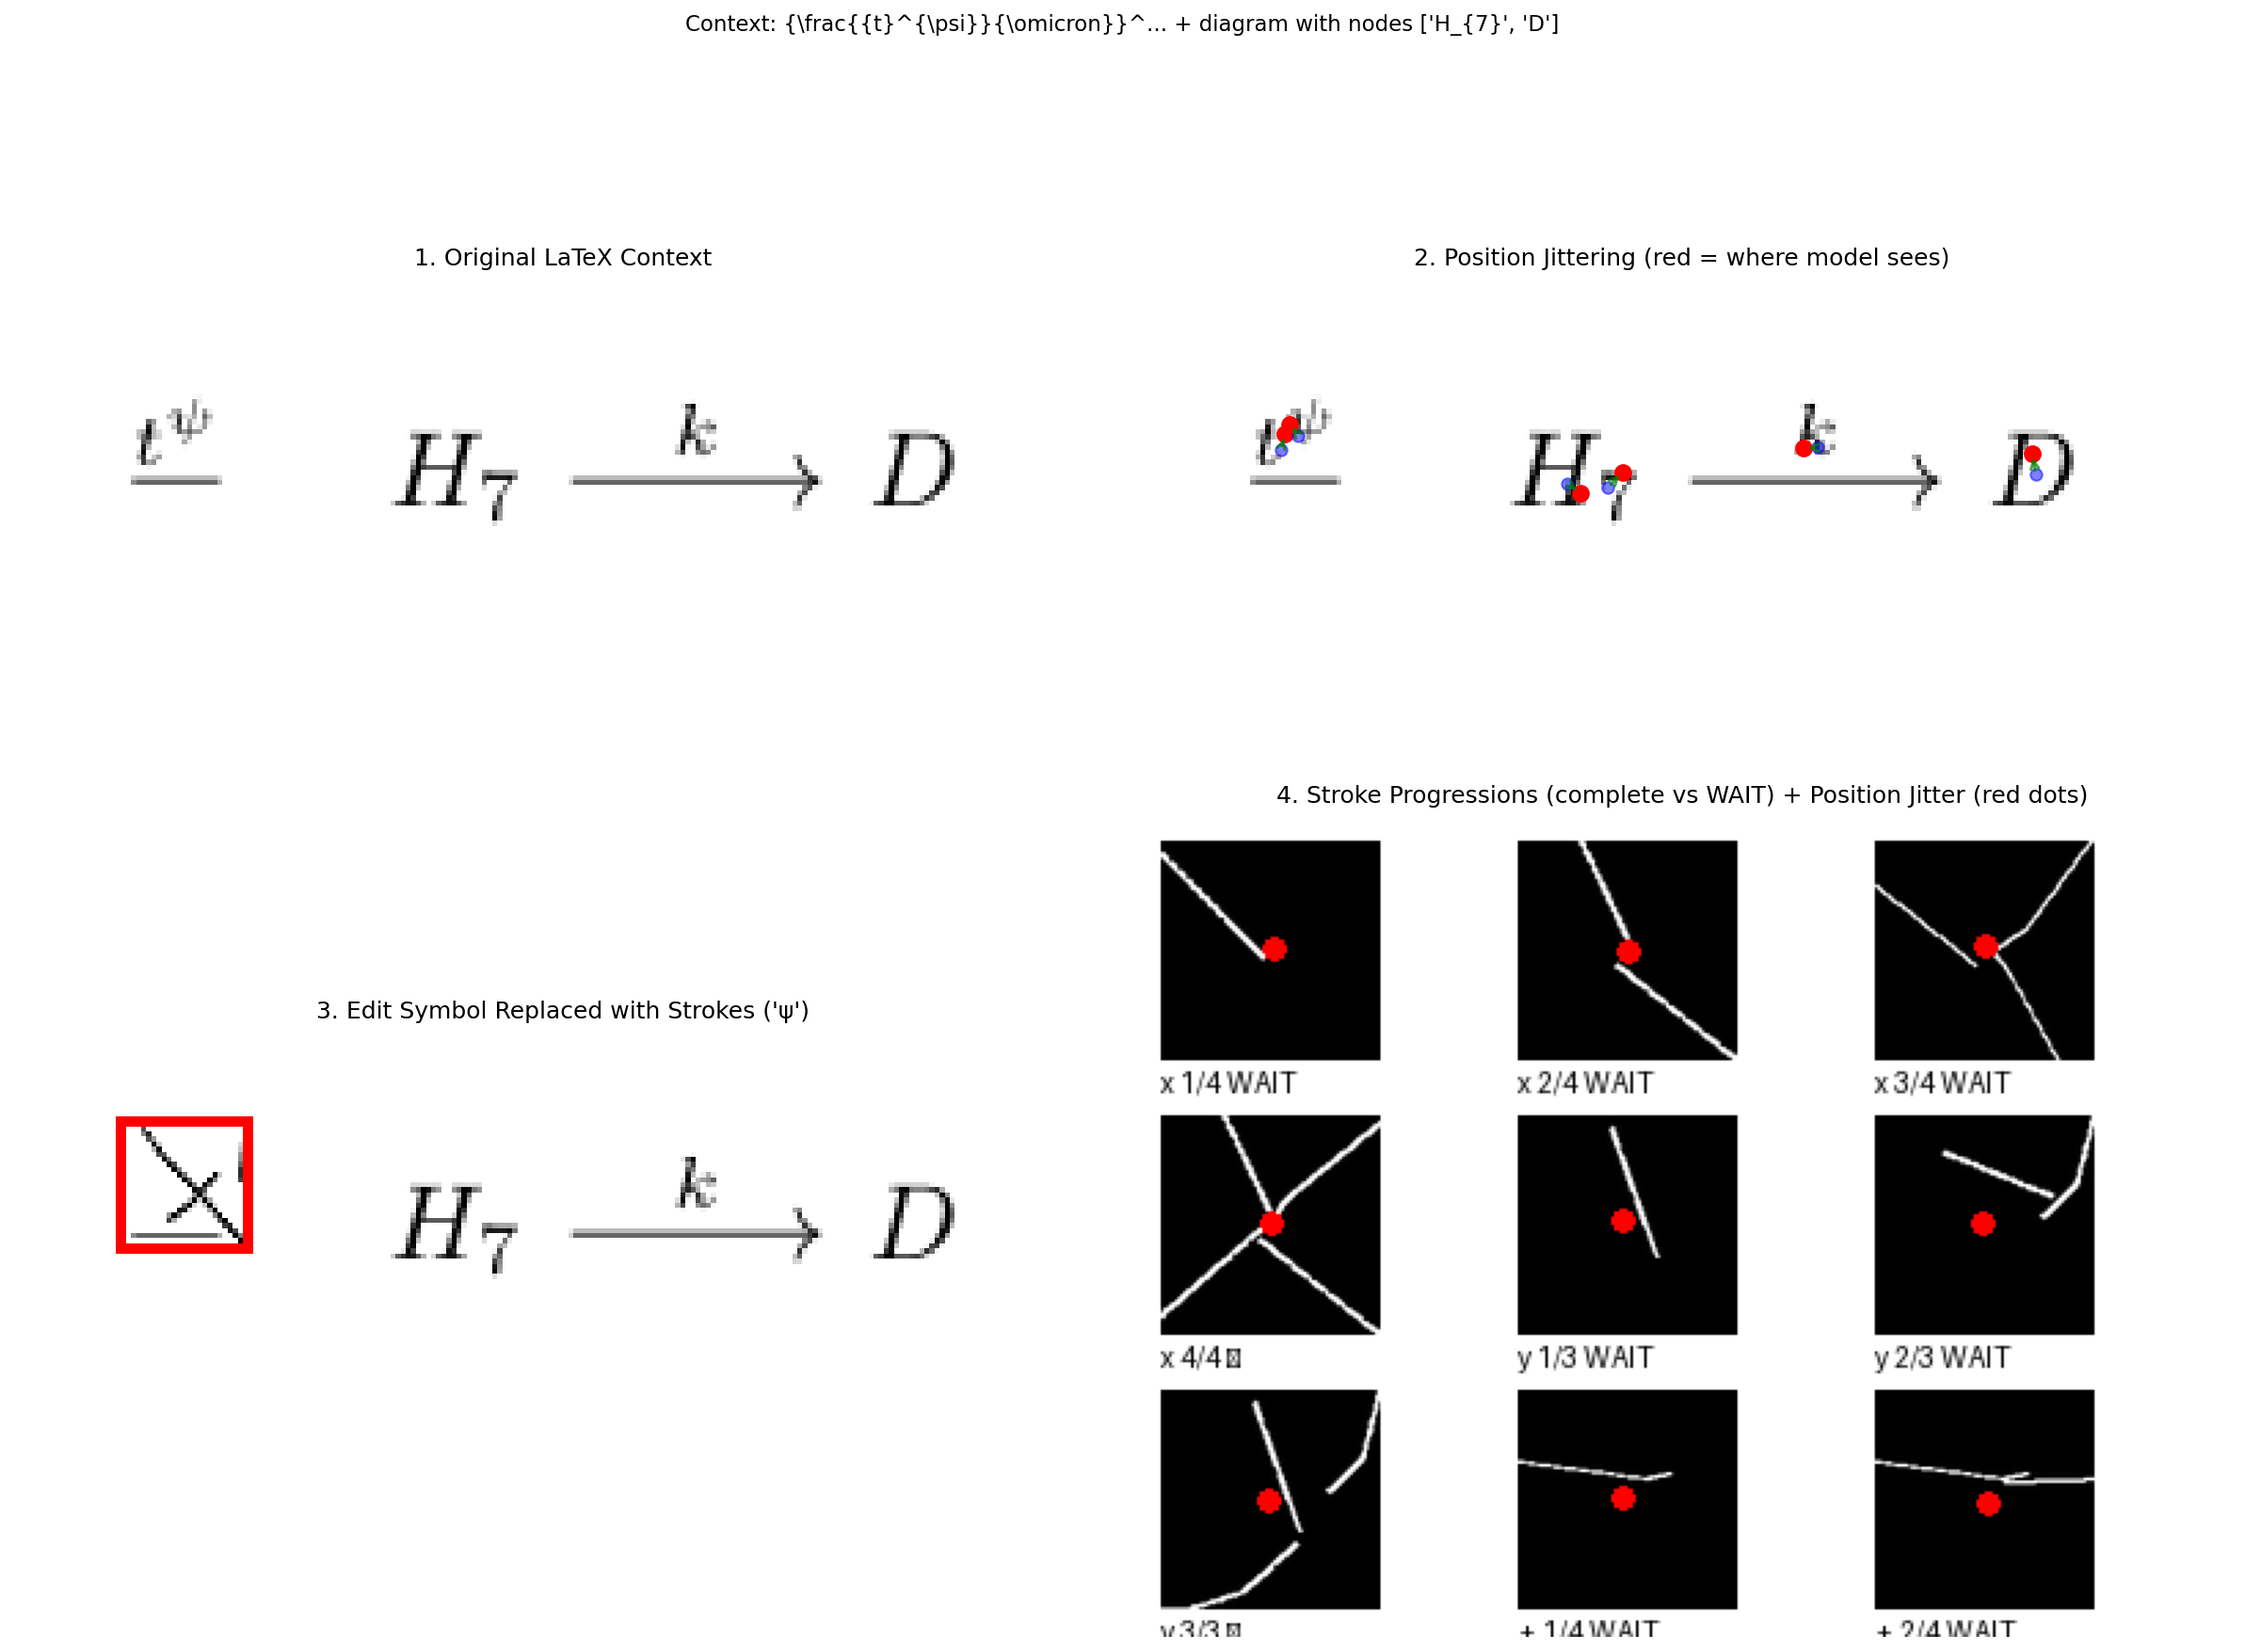
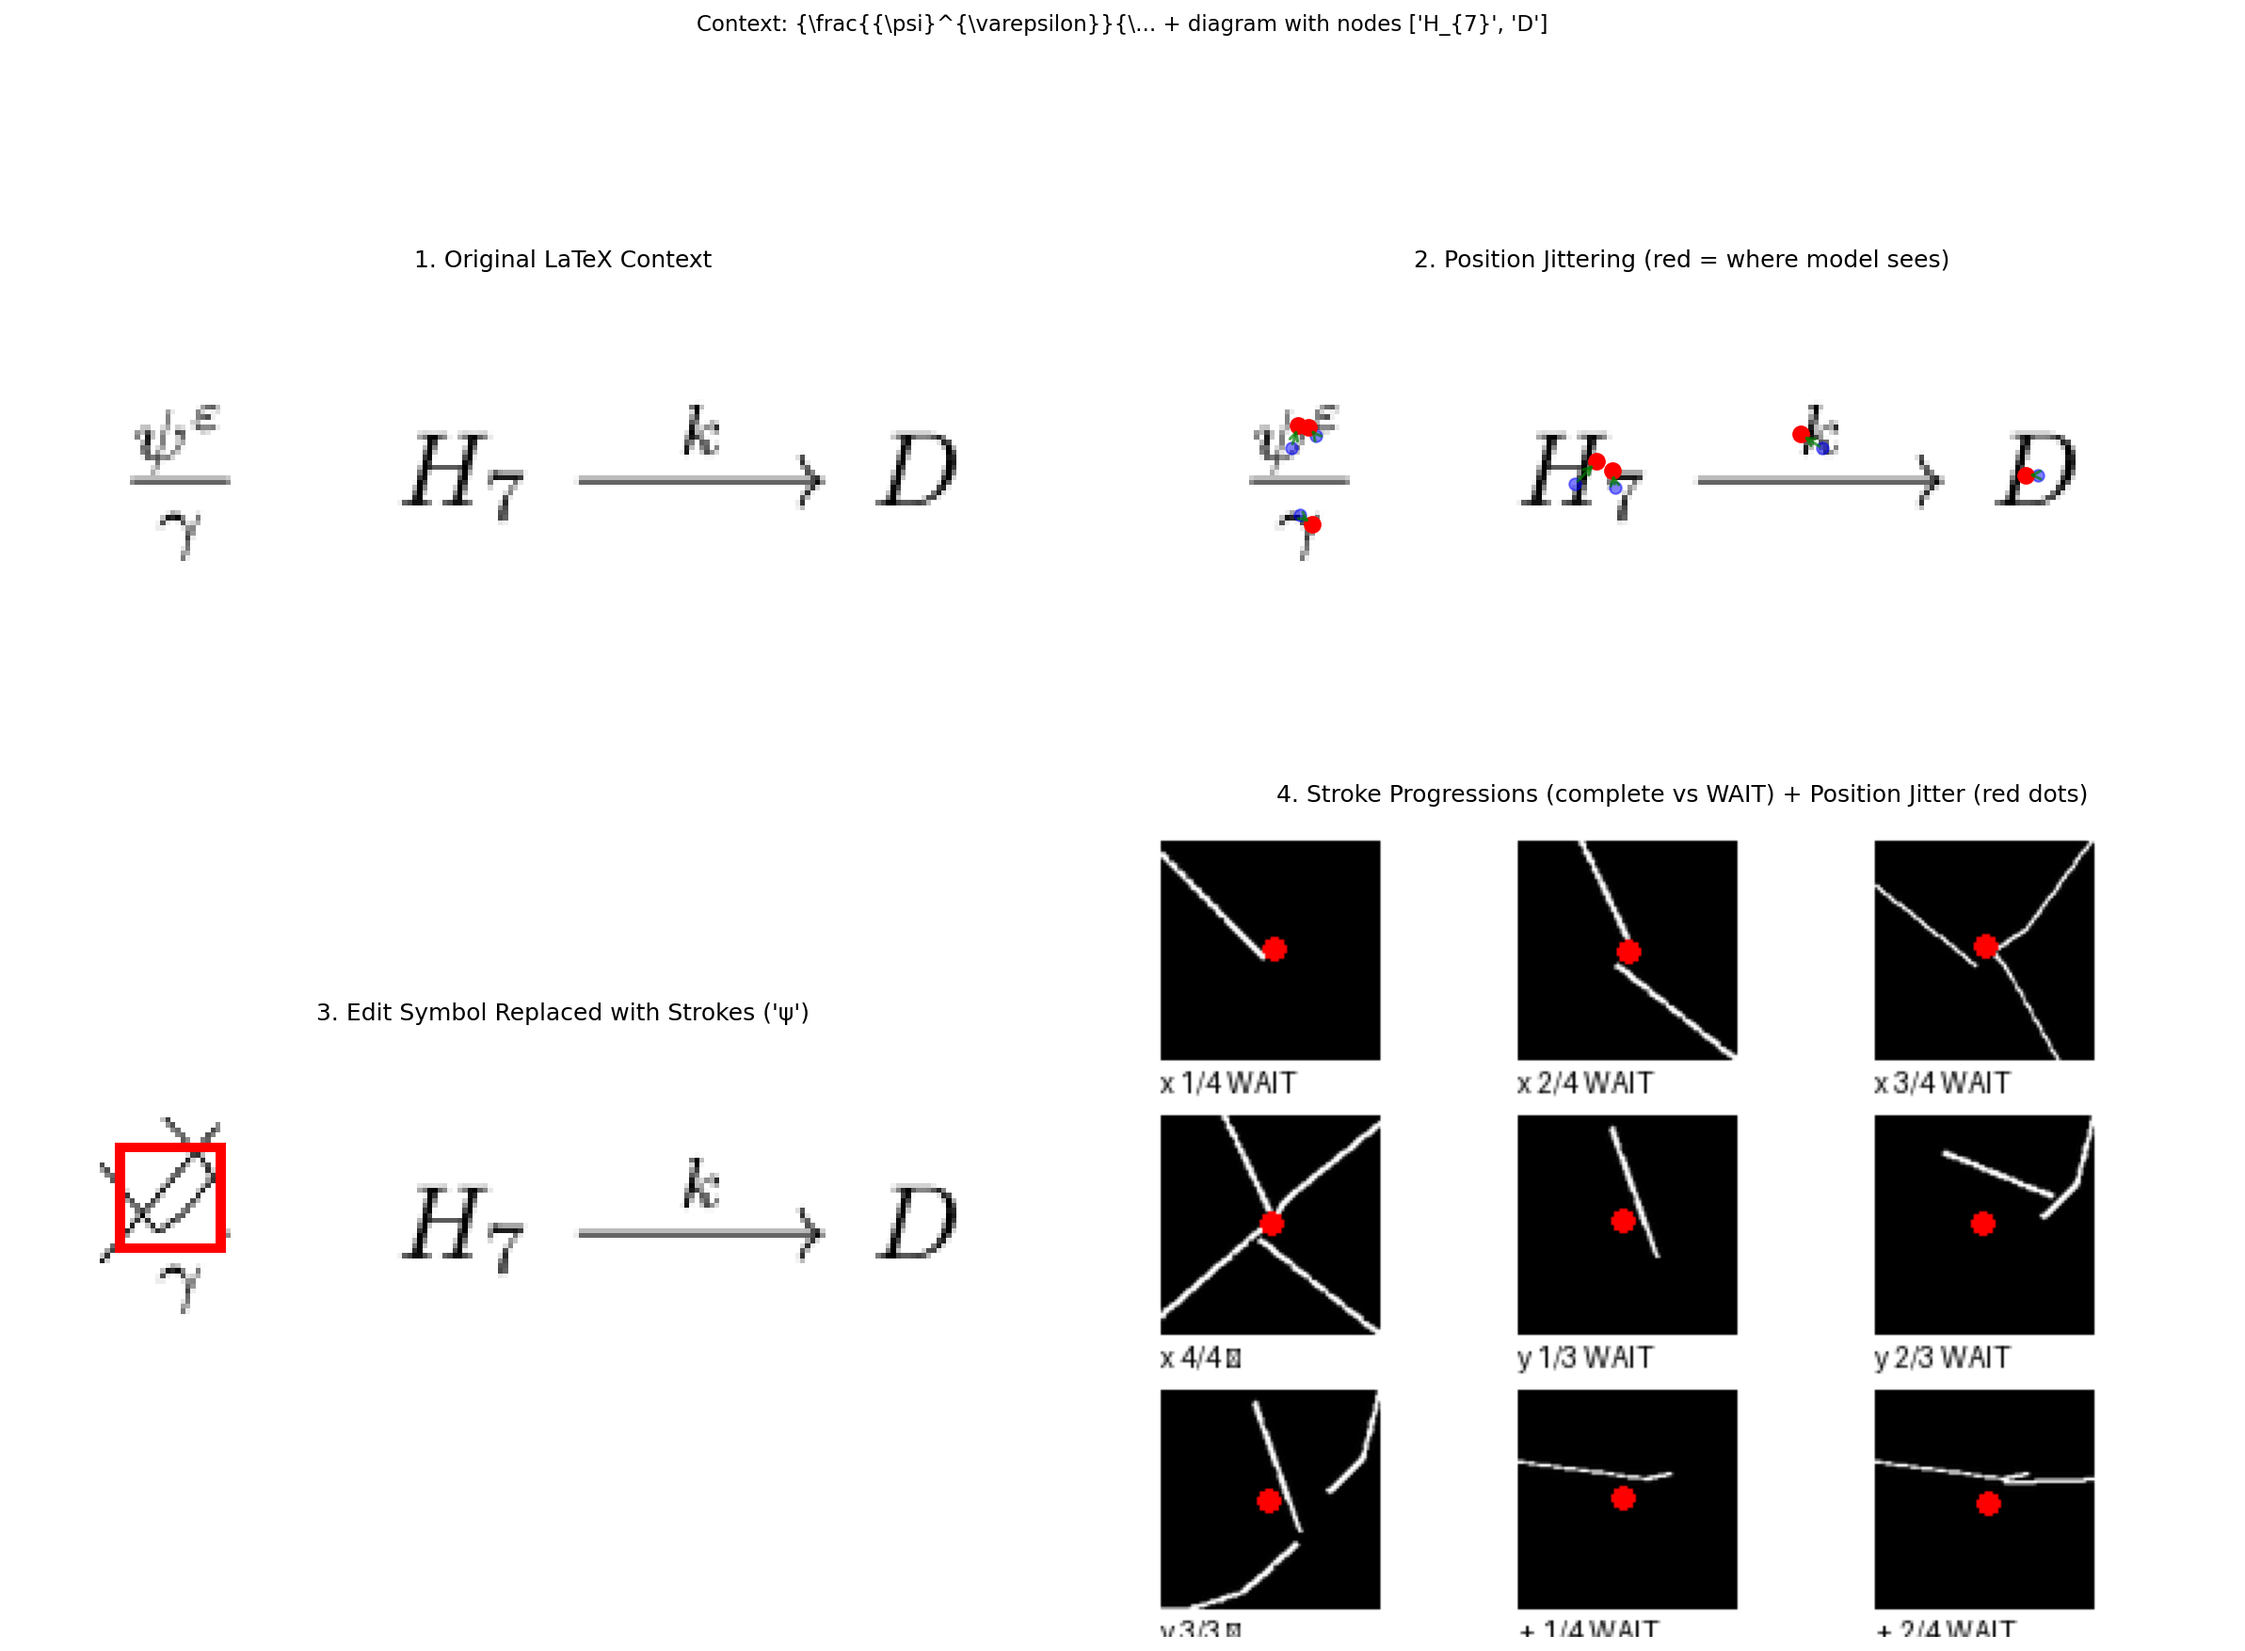
fix: red box now tight around symbol bbox, not the stroke canvas

diff --git a/context_tracker/data/demos/visualize_context_demo.py b/context_tracker/data/demos/visualize_context_demo.py
@@ -467,8 +467,9 @@ def visualize_context_with_strokes(
         
         img_with_strokes.paste(stroke_rgba, (paste_x, paste_y), stroke_rgba)
         
-        # Mark the replacement area
-        draw.rectangle([paste_x, paste_y, paste_x + stroke_size, paste_y + stroke_size], 
+        # Mark the replacement area with red box - TIGHT around symbol bbox
+        box_pad = 3
+        draw.rectangle([x0 - box_pad, y0 - box_pad, x1 + box_pad, y1 + box_pad], 
                       outline='red', width=2)
     
     ax3.imshow(img_with_strokes)
